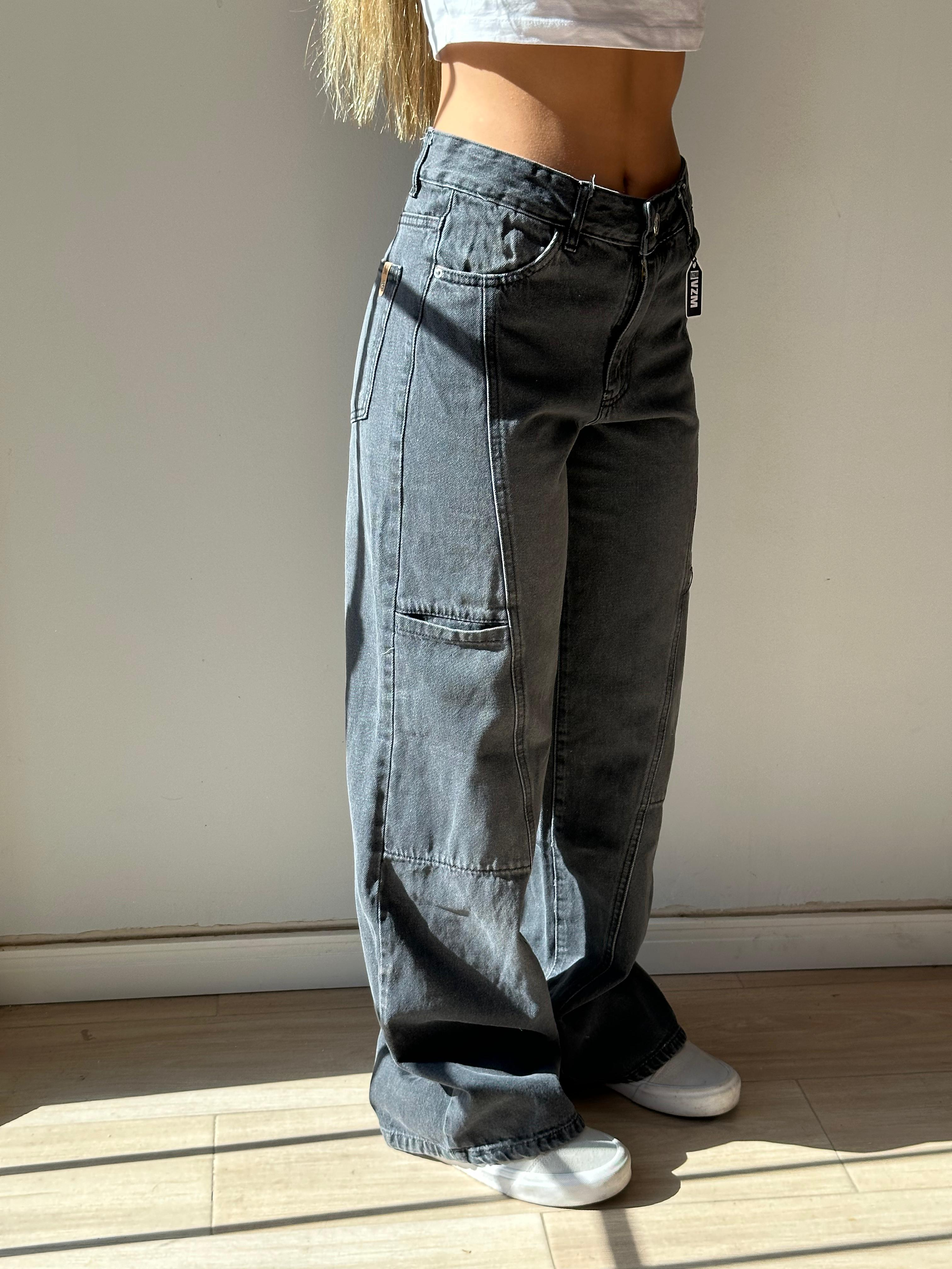
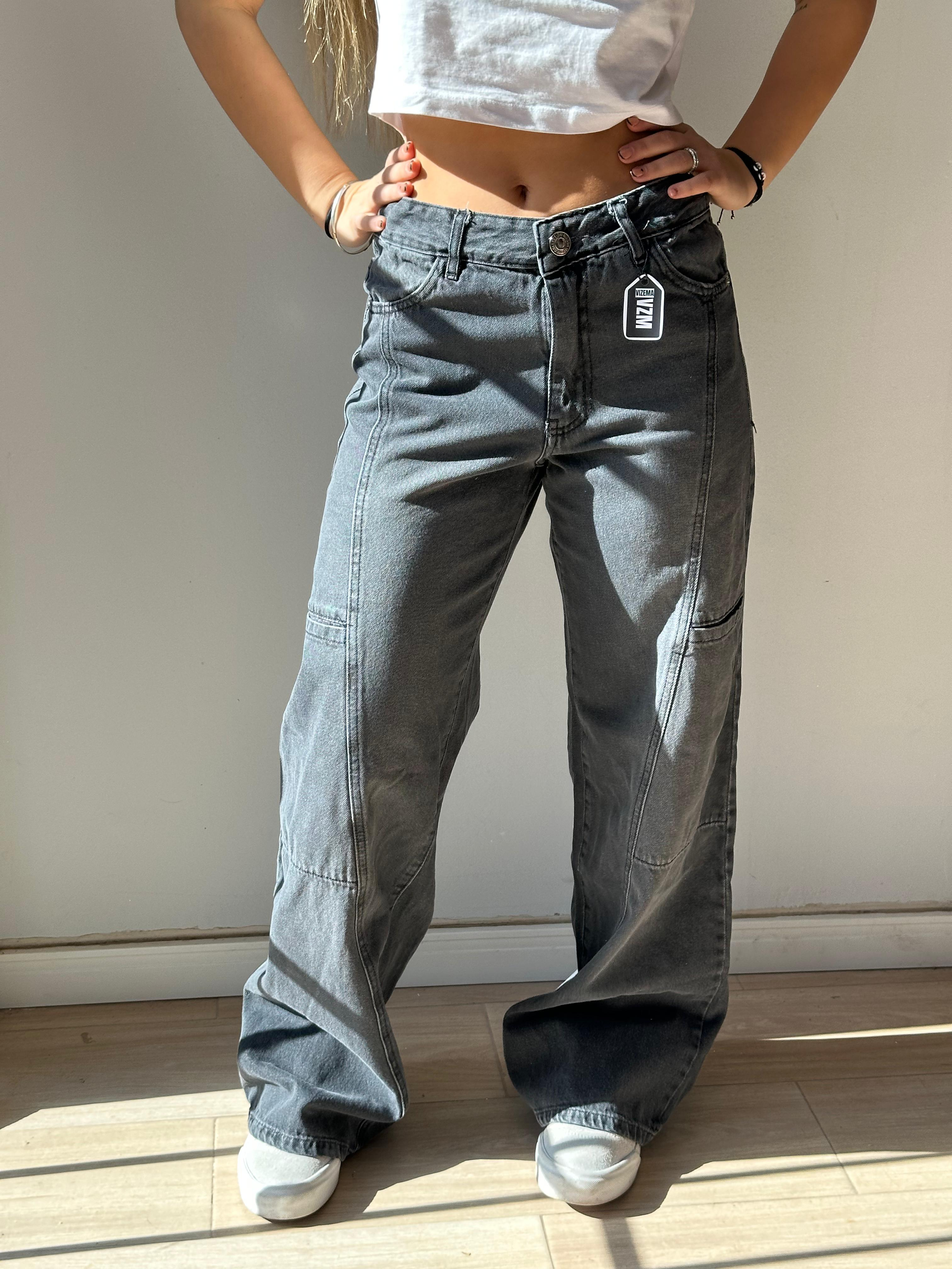
agregue fotos

diff --git a/index.html b/index.html
@@ -27,7 +27,8 @@
   </header>
 
   <div>
-    <img class="imagen" src="img/imagen2.jpg" alt="imagen">
+    <img class="imagen2" src="img/imagen2.jpg" alt="imagen">
+    <img class="imagen1" src="img/imagen1.copia.jpg" alt="imagen">
   </div>
 
   <div class="container">
@@ -44,6 +45,12 @@
           </div>
           <div class="carousel-item">
             <img class="imagenJeans" src="img/JeanBaggy1.2.jpg" alt="JeanBaggy1.2">
+          </div>
+          <div class="carousel-item">
+            <img class="imagenJeans" src="img/JeanBaggy1.3.jpg" alt="JeanBaggy1.3">
+          </div>
+          <div class="carousel-item">
+            <img class="imagenJeans" src="img/JeanBaggy1.4.jpg" alt="JeanBaggy1.4">
           </div>
         </div>
         <!-- Controles del carrusel -->
@@ -94,6 +101,9 @@
           <div class="carousel-item">
             <img class="imagenJeans" src="img/JeanBaggy3.2.jpg" alt="JeanBaggy3.2">
           </div>
+          <div class="carousel-item">
+            <img class="imagenJeans" src="img/JeanBaggy3.3.jpg" alt="JeanBaggy3.3">
+          </div>
         </div>
         <!-- Controles del carrusel -->
         <a class="carousel-control-prev" href="#fotoJeanBaggy3" role="button" data-slide="prev">
@@ -140,6 +150,9 @@
           <div class="carousel-item">
             <img class="imagenJeans" src="img/JeanBaggy5.2.jpg" alt="JeanBaggy5.2">
           </div>
+          <div class="carousel-item">
+            <img class="imagenJeans" src="img/JeanBaggy5.3.jpg" alt="JeanBaggy5.3">
+          </div>
         </div>
         <!-- Controles del carrusel -->
         <a class="carousel-control-prev" href="#fotoJeanBaggy5" role="button" data-slide="prev">
@@ -158,7 +171,7 @@
 
     <h5 class="subtitulos">Jeans Wide</h5>
     <section class="contenedor">
-      <div id="fotoJeanWide1.1" class="columna carousel">
+      <div id="fotoJeanWide1-1" class="columna carousel">
         <div class="carousel-inner">
           <h6>Wide 01</h6>
           <div class="carousel-item active">
@@ -167,13 +180,16 @@
           <div class="carousel-item">
             <img class="imagenJeans" src="img/JeanWide1.2.jpg" alt="JeanWide1.2">
           </div>
+          <div class="carousel-item">
+            <img class="imagenJeans" src="img/JeanWide1.3.jpg" alt="JeanWide1.3">
+          </div>
         </div>
         <!-- Controles del carrusel -->
-        <a class="carousel-control-prev" href="#fotoJeanWide1.1" role="button" data-slide="prev">
+        <a class="carousel-control-prev" href="#fotoJeanWide1-1" role="button" data-slide="prev">
           <span class="carousel-control-prev-icon" aria-hidden="true"></span>
           <span class="sr-only"></span>
         </a>
-        <a class="carousel-control-next" href="#fotoJeanWide1.1" role="button" data-slide="next">
+        <a class="carousel-control-next" href="#fotoJeanWide1-1" role="button" data-slide="next">
           <span class="carousel-control-next-icon" aria-hidden="true"></span>
           <span class="sr-only"></span>
         </a>
@@ -181,22 +197,28 @@
         <span class="line">Precio: $51.000</span>
       </div>
 
-      <div id="fotoJeanWide1.2" class="columna carousel">
+      <div id="fotoJeanWide1-2" class="columna carousel">
         <div class="carousel-inner">
           <h6 class="h6">Wide 01 - Negro</h6>
           <div class="carousel-item active">
-            <img class="imagenJeans d-block" src="img/JeanWide1.3.jpg" alt="JeanWide1.3">
+            <img class="imagenJeans d-block" src="img/JeanWide1.4.jpg" alt="JeanWide1.4">
           </div>
           <div class="carousel-item">
-            <img class="imagenJeans" src="img/JeanWide1.4.jpg" alt="JeanWide1.4">
+            <img class="imagenJeans" src="img/JeanWide1.5.jpg" alt="JeanWide1.5">
+          </div>
+          <div class="carousel-item">
+            <img class="imagenJeans" src="img/JeanWide1.6.jpg" alt="JeanWide1.6">
+          </div>
+          <div class="carousel-item">
+            <img class="imagenJeans" src="img/JeanWide1.7.jpg" alt="JeanWide1.7">
           </div>
         </div>
         <!-- Controles del carrusel -->
-        <a class="carousel-control-prev" href="#fotoJeanWide1.2" role="button" data-slide="prev">
+        <a class="carousel-control-prev" href="#fotoJeanWide1-2" role="button" data-slide="prev">
           <span class="carousel-control-prev-icon" aria-hidden="true"></span>
           <span class="sr-only"></span>
         </a>
-        <a class="carousel-control-next" href="#fotoJeanWide1.2" role="button" data-slide="next">
+        <a class="carousel-control-next" href="#fotoJeanWide1-2" role="button" data-slide="next">
           <span class="carousel-control-next-icon" aria-hidden="true"></span>
           <span class="sr-only"></span>
         </a>
@@ -204,7 +226,7 @@
         <span class="line">Precio: $51.000</span>
       </div>
 
-      <div id="fotoJeanWide2.1" class="columna carousel">
+      <div id="fotoJeanWide2-1" class="columna carousel">
         <div class="carousel-inner">
           <h6>Wide 02</h6>
           <div class="carousel-item active">
@@ -213,13 +235,19 @@
           <div class="carousel-item">
             <img class="imagenJeans" src="img/JeanWide2.2.jpg" alt="JeanWide2.2">
           </div>
+          <div class="carousel-item">
+            <img class="imagenJeans" src="img/JeanWide2.3.jpg" alt="JeanWide2.3">
+          </div>
+          <div class="carousel-item">
+            <img class="imagenJeans" src="img/JeanWide2.4.jpg" alt="JeanWide2.4">
+          </div>
         </div>
         <!-- Controles del carrusel -->
-        <a class="carousel-control-prev" href="#fotoJeanWide2.1" role="button" data-slide="prev">
+        <a class="carousel-control-prev" href="#fotoJeanWide2-1" role="button" data-slide="prev">
           <span class="carousel-control-prev-icon" aria-hidden="true"></span>
           <span class="sr-only"></span>
         </a>
-        <a class="carousel-control-next" href="#fotoJeanWide2.1" role="button" data-slide="next">
+        <a class="carousel-control-next" href="#fotoJeanWide2-1" role="button" data-slide="next">
           <span class="carousel-control-next-icon" aria-hidden="true"></span>
           <span class="sr-only"></span>
         </a>
@@ -227,25 +255,34 @@
         <span class="line">Precio: $49.500</span>
       </div>
 
-      <div id="fotoJeanWide2.2" class="columna carousel">
+      <div id="fotoJeanWide2-2" class="columna carousel">
         <div class="carousel-inner">
           <h6 class="h6">Wide 02 - Gris</h6>
           <div class="carousel-item active">
-            <img class="imagenJeans d-block" src="img/JeanWide2.3.jpg" alt="JeanWide2.3">
+            <img class="imagenJeans d-block" src="img/JeanWide2.5.jpg" alt="JeanWide2.5">
           </div>
           <div class="carousel-item">
-            <img class="imagenJeans" src="img/JeanWide2.4.jpg" alt="JeanWide2.4">
+            <img class="imagenJeans" src="img/JeanWide2.6.jpg" alt="JeanWide2.6">
           </div>
           <div class="carousel-item">
-            <img class="imagenJeans" src="img/JeanWide2.5.jpg" alt="JeanWide2.5">
+            <img class="imagenJeans" src="img/JeanWide2.7.jpg" alt="JeanWide2.7">
+          </div>
+          <div class="carousel-item">
+            <img class="imagenJeans" src="img/JeanWide2.8.jpg" alt="JeanWide2.8">
+          </div>
+          <div class="carousel-item">
+            <img class="imagenJeans" src="img/JeanWide2.9.jpg" alt="JeanWide2.9">
+          </div>
+          <div class="carousel-item">
+            <img class="imagenJeans" src="img/JeanWide2.10.jpg" alt="JeanWide2.10">
           </div>
         </div>
         <!-- Controles del carrusel -->
-        <a class="carousel-control-prev" href="#fotoJeanWide2.2" role="button" data-slide="prev">
+        <a class="carousel-control-prev" href="#fotoJeanWide2-2" role="button" data-slide="prev">
           <span class="carousel-control-prev-icon" aria-hidden="true"></span>
           <span class="sr-only"></span>
         </a>
-        <a class="carousel-control-next" href="#fotoJeanWide2.2" role="button" data-slide="next">
+        <a class="carousel-control-next" href="#fotoJeanWide2-2" role="button" data-slide="next">
           <span class="carousel-control-next-icon" aria-hidden="true"></span>
           <span class="sr-only"></span>
         </a>
@@ -261,6 +298,9 @@
           </div>
           <div class="carousel-item">
             <img class="imagenJeans" src="img/JeanWide3.2.jpg" alt="JeanWide3.2">
+          </div>
+          <div class="carousel-item">
+            <img class="imagenJeans" src="img/JeanWide3.3.jpg" alt="JeanWide3.3">
           </div>
         </div>
         <!-- Controles del carrusel -->

diff --git a/css/style.css b/css/style.css
@@ -25,10 +25,16 @@ header {
     width: 8rem;
 }
 
-.imagen {
+.imagen2 {
     /* margin-left: 4rem; */
     width: 100%;
     opacity: 0.7;
+}
+
+.imagen1 {
+    width: 100%;
+    opacity: 0.7;
+    display: none;
 }
 
 /* .vizema {
@@ -87,8 +93,8 @@ nav {
     /* color: #2b2b2b00; */
     border: 1rem solid #2b2b2b00;
     margin: 0.5rem 0.5rem;
-    /* margin: 0.2rem 1rem; */
-    padding: auto;
+    /* margin: 0; */
+    padding: 0;
     border-radius: 0.8rem;
     transition: box-shadow 0.1s ease;    
     width: 23%; 
@@ -139,7 +145,8 @@ nav {
     }
 
     .columna {
-        width: 30%;
+        margin: 0.5rem 0.3rem;
+        width: 31%;
     }
 
     .h6 {
@@ -160,6 +167,14 @@ nav {
 }
 
 @media (max-width: 600px){
+    .imagen2 {
+        display: none;
+    }
+    
+    .imagen1 {
+        display: block;
+    }
+
     .logo {
         margin-left: 1.5rem;
         width: 6rem;
@@ -190,7 +205,8 @@ nav {
     }
 
     .columna {
-        width: 45%;
+        margin: 0.5rem 0.1rem;
+        width: 49%;
     }
 
     .h6 {
